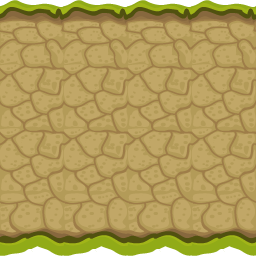
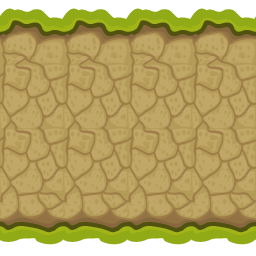
Добавил еще спрайтов

diff --git a/labirint.py b/labirint.py
@@ -47,10 +47,38 @@ def load_image(image_file_name):
 
 # Функция определяет какой спрайт надо отрисовать
 def define_sprite(x, y):
+    # Направления дороги
     if maze[x + 1][y] > 0 and maze[x - 1][y] > 0 and maze[x][y+1] == 0 and maze[x][y-1] == 0:
         return road_left_right
     if maze[x + 1][y] == 0 and maze[x - 1][y] == 0 and maze[x][y + 1] > 0 and maze[x][y - 1] > 0:
         return road_up_down
+
+    # Тупики
+    if maze[x][y+1] > 0 and maze[x+1][y] == 0 and maze[x][y-1] == 0 and maze[x-1][y] == 0:
+        return road_end_up
+    if maze[x][y+1] == 0 and maze[x+1][y] > 0 and maze[x][y-1] == 0 and maze[x-1][y] == 0:
+        return road_end_left
+    if maze[x][y+1] == 0 and maze[x+1][y] == 0 and maze[x][y-1] > 0 and maze[x-1][y] == 0:
+        return road_end_down
+    if maze[x][y+1] == 0 and maze[x+1][y] == 0 and maze[x][y-1] == 0 and maze[x-1][y] > 0:
+        return road_end_right
+
+    # Перекресток 2
+    if maze[x][y+1] > 0 and maze[x+1][y] > 0 and maze[x][y-1] == 0 and maze[x-1][y] == 0:
+        return cross_2_right_down
+    if maze[x][y+1] == 0 and maze[x+1][y] > 0 and maze[x][y-1] > 0 and maze[x-1][y] == 0:
+        return cross_2_up_right
+    if maze[x][y+1] == 0 and maze[x+1][y] == 0 and maze[x][y-1] > 0 and maze[x-1][y] > 0:
+        return cross_2_left_up
+    if maze[x][y+1] > 0 and maze[x+1][y] == 0 and maze[x][y-1] == 0 and maze[x-1][y] > 0:
+        return cross_2_down_left
+
+    # Перекресток 3
+
+    # Перекресток 4
+    if maze[x][y+1] > 0 and maze[x+1][y] > 0 and maze[x][y-1] > 0 and maze[x-1][y] > 0:
+        return cross_4
+
     return road_up_down
 
 
@@ -131,9 +159,44 @@ def create_maze():
 
 
 # Подгружаем все спрайты
-bg = load_image("bg_1.png")
+# Грузим все вариаты фона
+bg = []
+bg.append(load_image("bg_01.png"))
+bg.append(load_image("bg_02.png"))
+bg.append(load_image("bg_03.png"))
+bg.append(load_image("bg_04.png"))
+bg.append(load_image("bg_05.png"))
+bg.append(load_image("bg_06.png"))
+bg.append(load_image("bg_07.png"))
+bg.append(load_image("bg_08.png"))
+bg.append(load_image("bg_09.png"))
+bg.append(load_image("bg_10.png"))
+bg.append(load_image("bg_11.png"))
+bg.append(load_image("bg_12.png"))
+bg.append(load_image("bg_13.png"))
+bg.append(load_image("bg_14.png"))
+bg.append(load_image("bg_15.png"))
+bg.append(load_image("bg_16.png"))
+bg.append(load_image("bg_17.png"))
+bg.append(load_image("bg_18.png"))
+bg.append(load_image("bg_19.png"))
+bg.append(load_image("bg_20.png"))
+bg_00 = load_image("bg_00.png")
+
+road_end_up = load_image("road_end_up.png")
+road_end_down = load_image("road_end_down.png")
+road_end_left = load_image("road_end_left.png")
+road_end_right = load_image("road_end_right.png")
+
 road_up_down = load_image("road_up_down.png")
 road_left_right = load_image("road_left_right.png")
+
+cross_2_down_left = load_image("cross_2_down_left.png")
+cross_2_left_up = load_image("cross_2_left_up.png")
+cross_2_right_down = load_image("cross_2_right_down.png")
+cross_2_up_right = load_image("cross_2_up_right.png")
+
+cross_4 = load_image("cross_4.png")
 
 create_maze()
 
@@ -141,7 +204,11 @@ for _x in range(size_x):
     for _y in range(size_y):
         # Все клетки заполняем BG
         # TODO Сделать несколько фонов и выбирать рандомно
-        screen.blit(bg, (_x * cell_size, _y * cell_size))
+        if maze[_x][_y] == 0:
+            screen.blit(random.choice(bg), (_x * cell_size, _y * cell_size))
+        else:
+            screen.blit(bg_00, (_x * cell_size, _y * cell_size))
+
         if maze[_x][_y] > 0:
             screen.blit(define_sprite(_x, _y), (_x * cell_size, _y * cell_size))
 
